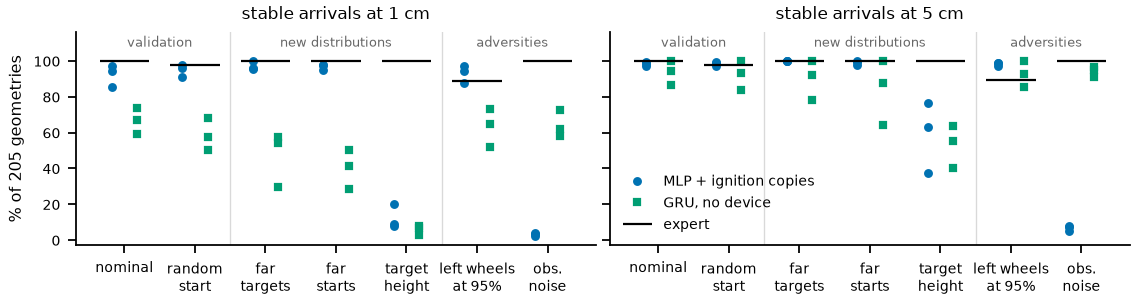
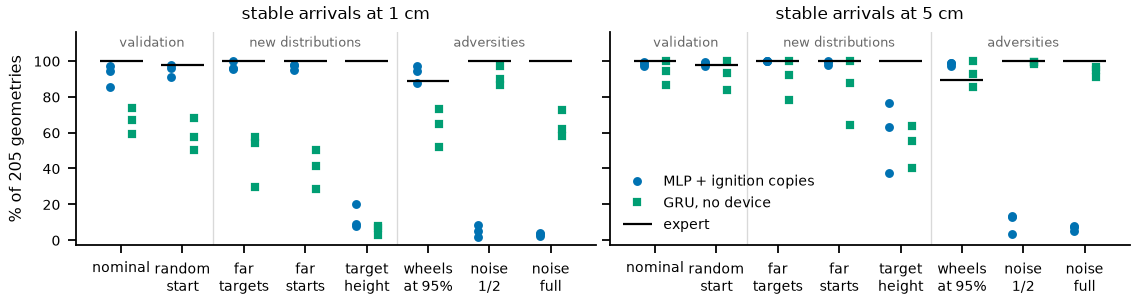
report_figures: half-noise adversity group, shorter labels

diff --git a/scripts/analysis/report_figures.py b/scripts/analysis/report_figures.py
@@ -32,8 +32,9 @@ groups=[('nominal','v2_mlp28_trig144_on_clean_validation_20261102','v2_gru28_pat
         ('far\ntargets','ood_far_targets_mlp28_trig144_20261103','ood_far_targets_gru28_patience40_20261103'),
         ('far\nstarts','ood_far_start_mlp28_trig144_20261103','ood_far_start_gru28_patience40_20261103'),
         ('target\nheight','ood_target_height_mlp28_trig144_20261103','ood_target_height_gru28_patience40_20261103'),
-        ('left wheels\nat 95%','adv_gain_left095_mlp28_trig144_20261103','adv_gain_left095_gru28_patience40_20261103'),
-        ('obs.\nnoise','adv_obsnoise_mlp28_trig144_20261103','adv_obsnoise_gru28_patience40_20261103')]
+        ('wheels\nat 95%','adv_gain_left095_mlp28_trig144_20261103','adv_gain_left095_gru28_patience40_20261103'),
+        ('noise\n1/2','adv_obsnoise_half_mlp28_trig144_20261104','adv_obsnoise_half_gru28_patience40_20261104'),
+        ('noise\nfull','adv_obsnoise_mlp28_trig144_20261103','adv_obsnoise_gru28_patience40_20261103')]
 fig,axes=plt.subplots(1,2,figsize=(7.1,1.9),sharey=True)
 for ax,tol,title in [(axes[0],'0.01','stable arrivals at 1 cm'),(axes[1],'0.05','stable arrivals at 5 cm')]:
     for i,(name,dm,dg) in enumerate(groups):
@@ -44,6 +45,6 @@ for ax,tol,title in [(axes[0],'0.01','stable arrivals at 1 cm'),(axes[1],'0.05',
     ax.set_xticks(range(len(groups))); ax.set_xticklabels([g[0] for g in groups]); ax.set_title(title); ax.set_ylim(-3,116)
     ax.axvline(4.5,color='0.85',lw=0.6); ax.axvline(1.5,color='0.85',lw=0.6)
 axes[0].set_ylabel('% of 205 geometries'); axes[1].legend(frameon=False,loc='lower left',ncol=1)
-[(a.text(0.5,108,'validation',ha='center',color='0.4',fontsize=6), a.text(3,108,'new distributions',ha='center',color='0.4',fontsize=6), a.text(5.5,108,'adversities',ha='center',color='0.4',fontsize=6)) for a in axes]
+[(a.text(0.5,108,'validation',ha='center',color='0.4',fontsize=6), a.text(3,108,'new distributions',ha='center',color='0.4',fontsize=6), a.text(6,108,'adversities',ha='center',color='0.4',fontsize=6)) for a in axes]
 fig.tight_layout(pad=0.4); fig.savefig(OUT+'generalisation.pdf'); fig.savefig(OUT+'generalisation.png',dpi=160); plt.close(fig)
 print('done')
